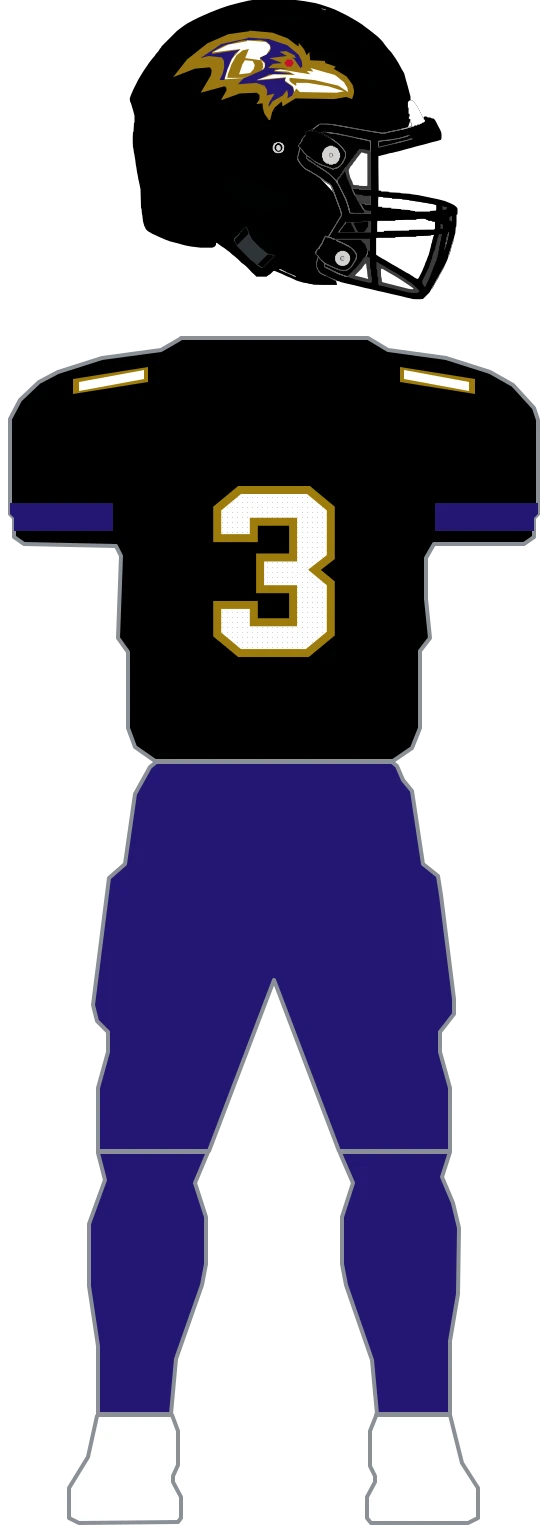
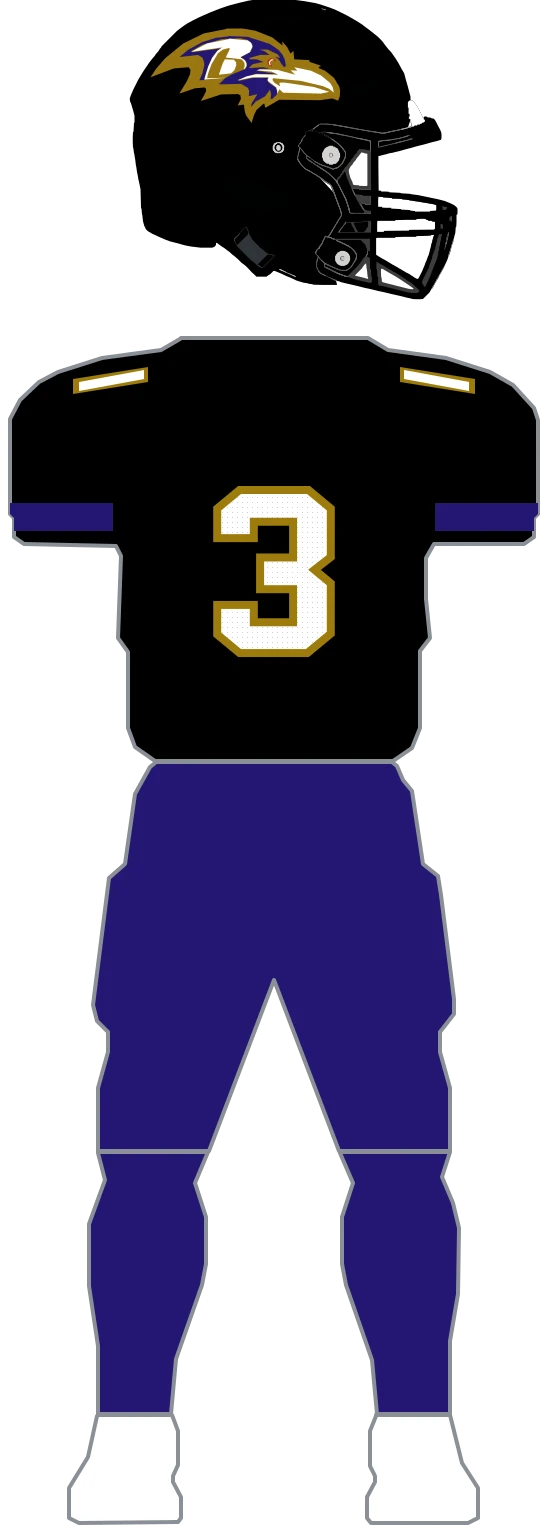
fix(uniforms): correct Ravens helmet decal

Changed region(s): [[0.2732, 0.0, 0.6375, 0.0919]]

diff --git a/lib/uniforms/teams/ravens.ts b/lib/uniforms/teams/ravens.ts
@@ -46,10 +46,10 @@ export const RAVENS_SLEEVE_BAND_RIGHT = 'M558,548 H455 V576 H558 Z';
 // gaps are shell-colored and therefore intentionally omitted from the layer stack. Placement was
 // measured from the GUD 2025 helmet: visible mark x=15.4..79.8%, y=11.2..42.8% of the shell.
 export const RAVENS_DECAL_GOLD_PATH =
-  'M378.1,129.1 L424.3,133.3 L454.6,144.6 L475.2,160.2 L477.0,160.2 L476.8,154.5 L477.9,154.5 L488.1,167.3 L492.9,178.6 L498.2,171.5 L499.8,188.5 L529.1,189.9 L530.2,194.1 L551.0,201.2 L546.8,205.4 L572.9,221.0 L584.8,237.9 L587.4,247.8 L587.4,254.9 L583.7,266.2 L571.6,261.9 L548.3,266.2 L470.5,264.8 L445.4,280.3 L444.3,280.3 L443.5,271.8 L442.0,271.8 L428.8,283.1 L423.5,293.0 L420.1,307.2 L417.4,308.6 L407.9,294.5 L405.0,283.1 L404.7,274.7 L392.3,276.1 L397.8,267.6 L398.6,261.9 L398.2,257.7 L392.9,253.5 L359.3,254.9 L324.0,267.6 L321.8,267.6 L332.3,249.2 L332.6,246.4 L331.5,242.2 L328.1,240.7 L280.9,253.5 L301.5,218.1 L302.8,208.2 L299.3,202.6 L269.2,205.4 L225.7,222.4 L253.5,187.0 L294.4,154.5 L336.4,136.2 L378.0,130.5 Z M373.6,167.3 L377.3,167.3 L369.9,185.6 L398.9,188.5 L404.0,192.7 L406.0,199.8 L403.7,206.8 L372.0,222.4 L334.3,222.4 L342.4,198.4 L351.4,181.4 L362.2,171.5 L373.5,168.7 Z M373.0,153.1 L399.7,153.1 L415.0,158.8 L417.1,164.4 L414.3,171.5 L398.1,181.4 L388.6,182.8 L399.2,172.9 L399.2,167.3 L394.1,161.6 L317.3,168.7 L372.8,154.5 Z';
+  'M332.6,125.0 L364.5,125.0 L390.2,129.4 L423.7,142.6 L443.8,158.4 L444.5,157.5 L443.8,151.4 L444.5,151.4 L454.3,162.8 L460.4,175.1 L466.4,169.9 L468.0,186.6 L498.8,188.3 L498.1,190.1 L498.8,191.9 L520.2,198.9 L521.1,200.6 L517.1,201.5 L517.3,204.2 L529.4,209.4 L547.3,223.5 L558.0,241.1 L559.8,249.0 L559.1,260.5 L555.8,269.3 L543.9,264.9 L519.6,268.4 L438.0,267.5 L410.8,283.3 L409.2,281.6 L408.3,275.4 L406.5,275.4 L392.7,287.7 L387.8,297.4 L382.6,314.1 L371.2,298.3 L368.8,289.5 L367.4,277.2 L354.9,278.9 L361.4,265.7 L360.1,258.7 L355.8,256.1 L321.6,256.9 L281.2,270.1 L291.7,250.8 L291.5,245.5 L288.8,242.9 L269.4,244.6 L238.1,255.2 L253.1,230.6 L259.5,216.5 L260.6,207.7 L256.8,202.4 L226.9,205.0 L180.4,222.6 L191.4,205.9 L209.5,184.8 L245.9,154.9 L287.2,134.7 L332.4,125.9 Z M336.6,164.6 L338.6,166.3 L331.0,183.9 L362.7,187.5 L368.5,194.5 L368.5,201.5 L366.3,206.8 L346.7,213.8 L334.4,221.8 L293.7,223.5 L302.6,197.1 L312.7,178.7 L325.2,168.1 L336.4,165.5 Z M337.5,149.6 L366.3,150.5 L379.3,156.7 L380.8,162.8 L377.5,169.9 L357.2,180.4 L352.2,180.4 L360.7,173.4 L362.1,169.9 L362.1,165.5 L359.8,161.1 L353.6,158.4 L318.3,159.3 L277.8,165.5 L307.1,154.9 L337.3,150.5 Z';
 export const RAVENS_DECAL_PURPLE_PATH =
-  'M374.9,143.2 L417.6,146.1 L454.6,158.8 L476.6,177.2 L482.9,189.9 L484.2,201.2 L480.5,204.0 L467.5,185.6 L461.0,182.8 L471.2,184.2 L468.3,178.6 L451.7,170.1 L438.3,171.5 L453.6,180.0 L417.9,184.2 L443.6,194.1 L425.6,195.5 L415.5,204.0 L455.2,205.4 L430.0,206.8 L427.4,211.1 L466.2,215.3 L418.2,216.7 L392.3,229.4 L451.5,223.8 L449.1,225.2 L449.3,230.9 L465.0,242.2 L467.3,250.6 L463.9,259.1 L454.3,264.8 L455.6,256.3 L453.6,247.8 L444.9,259.1 L424.6,270.4 L417.2,281.7 L416.6,277.5 L417.9,273.3 L428.8,254.9 L412.7,259.1 L413.9,253.5 L413.5,247.8 L408.4,239.3 L391.2,233.7 L355.3,236.5 L366.2,225.2 L407.6,206.8 L409.7,199.8 L408.9,192.7 L399.5,184.2 L419.0,171.5 L420.5,167.3 L420.5,160.2 L413.9,151.7 L400.2,147.5 L362.7,148.9 L327.4,158.8 L304.1,171.5 L303.3,175.7 L304.9,175.7 L360.3,167.3 L350.1,174.3 L341.3,188.5 L329.0,222.4 L328.6,228.0 L330.6,228.0 L318.6,228.0 L324.9,215.3 L327.9,202.6 L327.4,189.9 L322.9,182.8 L297.0,180.0 L280.3,184.2 L322.3,156.0 L374.7,144.6 Z M370.9,192.7 L378.0,195.5 L380.1,198.4 L380.1,204.0 L378.9,205.4 L378.6,208.2 L379.4,209.7 L374.7,212.5 L362.4,213.9 L365.9,201.2 L370.7,194.1 Z M382.8,167.3 L388.3,170.1 L389.2,171.5 L389.2,175.7 L386.2,181.4 L376.0,182.8 L374.9,181.4 L377.6,174.3 L382.6,168.7 Z';
+  'M336.6,140.0 L375.0,141.7 L419.3,155.8 L436.9,168.1 L444.1,176.9 L449.2,187.5 L451.0,198.0 L450.8,201.5 L446.5,201.5 L435.8,185.7 L429.1,181.3 L440.0,183.9 L435.1,176.9 L415.0,167.2 L397.8,167.2 L409.2,170.7 L418.6,177.8 L399.6,177.8 L378.6,183.9 L378.4,186.6 L392.9,186.6 L406.5,191.9 L385.1,196.2 L376.8,204.2 L404.7,202.4 L419.7,205.0 L398.9,205.9 L392.5,209.4 L436.0,216.5 L390.9,215.6 L354.7,227.9 L357.8,229.7 L386.2,223.5 L415.9,223.5 L416.6,224.4 L415.0,225.3 L414.6,228.8 L416.8,233.2 L431.8,243.8 L433.6,249.9 L433.3,255.2 L434.2,256.1 L425.1,264.9 L420.8,266.6 L421.5,256.1 L419.7,248.1 L418.6,248.1 L409.9,260.5 L391.1,271.0 L381.3,282.5 L382.8,274.5 L394.5,256.1 L377.0,260.5 L377.7,249.9 L375.2,243.8 L361.6,235.8 L317.2,236.7 L329.7,224.4 L341.7,217.4 L370.3,205.9 L373.0,199.8 L373.0,195.4 L371.9,191.9 L367.2,185.7 L360.3,183.1 L380.8,171.6 L384.4,162.8 L383.5,155.8 L375.0,147.9 L360.7,144.4 L323.6,146.1 L283.9,157.5 L261.5,170.7 L265.1,172.5 L321.9,164.6 L313.4,169.9 L304.2,182.2 L295.5,201.5 L289.5,220.0 L288.1,227.9 L278.1,228.8 L284.3,214.7 L287.9,199.8 L287.9,192.7 L284.3,183.1 L274.7,177.8 L238.3,182.2 L256.2,167.2 L283.9,152.3 L311.8,143.5 L336.4,140.8 Z M331.0,191.9 L338.8,195.4 L341.1,198.9 L341.1,201.5 L336.8,212.1 L323.9,213.0 L330.8,192.7 Z';
 export const RAVENS_DECAL_WHITE_PATH =
-  'M500.1,204.0 L549.6,218.1 L567.3,232.3 L574.2,243.6 L575.5,252.1 L556.2,239.3 L508.0,228.0 L459.4,223.8 L458.3,225.2 L458.4,229.4 L462.3,233.7 L471.2,239.3 L472.5,237.9 L471.6,233.7 L494.2,233.7 L536.7,240.7 L567.4,250.6 L552.1,253.5 L479.2,252.1 L472.3,245.0 L467.5,252.1 L467.3,246.4 L465.4,240.7 L449.4,229.4 L451.8,222.4 L392.8,228.0 L426.7,216.7 L469.9,218.1 L456.5,211.1 L427.7,209.7 L439.9,206.8 L500.0,216.7 L492.9,209.7 L506.4,211.1 L500.3,204.0 Z M373.6,148.9 L410.5,151.7 L418.2,157.4 L420.3,164.4 L412.4,177.2 L399.1,182.8 L399.7,187.0 L408.6,194.1 L409.2,198.4 L408.7,202.6 L405.0,206.8 L403.9,206.8 L405.8,202.6 L405.8,195.5 L401.3,188.5 L369.9,184.2 L377.3,165.8 L364.9,168.7 L352.5,178.6 L342.4,196.9 L334.8,218.1 L334.3,223.8 L369.8,223.8 L328.9,226.6 L334.5,206.8 L343.7,185.6 L360.7,165.8 L304.4,172.9 L335.5,157.4 L373.5,150.3 Z M368.8,188.5 L384.9,189.9 L389.1,198.4 L386.5,206.8 L379.7,213.9 L357.5,216.7 L364.8,195.5 L368.6,189.9 Z M455.2,188.5 L460.9,188.5 L454.7,191.3 L454.3,196.9 L456.0,199.8 L450.9,194.1 L455.1,189.9 Z';
+  'M468.0,202.4 L501.2,209.4 L521.8,219.1 L539.9,234.1 L544.8,242.0 L547.3,253.4 L537.7,245.5 L525.1,240.2 L480.5,229.7 L425.7,224.4 L424.4,227.9 L428.0,233.2 L438.7,240.2 L439.6,239.4 L438.0,235.0 L439.6,233.2 L449.2,233.2 L507.7,242.0 L537.9,251.7 L521.4,255.2 L445.6,253.4 L438.5,246.4 L433.8,255.2 L434.0,249.9 L432.0,242.9 L415.0,229.7 L415.0,226.2 L417.0,222.6 L385.1,222.6 L354.9,228.8 L372.1,220.9 L391.6,216.5 L436.2,217.4 L422.2,211.2 L392.5,208.6 L399.8,206.8 L434.0,207.7 L470.0,217.4 L460.6,208.6 L474.0,209.4 L468.2,202.4 Z M337.7,145.2 L374.6,148.8 L381.3,153.1 L384.0,158.4 L384.2,161.9 L379.0,172.5 L360.1,182.2 L369.9,189.2 L372.3,194.5 L372.6,199.8 L368.8,205.9 L366.5,205.9 L368.8,201.5 L368.5,193.6 L362.7,186.6 L331.0,183.1 L338.6,167.2 L338.6,163.7 L325.2,167.2 L315.6,174.3 L302.6,196.2 L295.3,216.5 L293.7,224.4 L331.7,223.5 L288.1,227.0 L296.2,200.6 L303.8,183.9 L314.3,169.9 L323.6,162.8 L261.8,171.6 L293.5,154.9 L337.5,146.1 Z M329.0,186.6 L347.3,187.5 L351.8,192.7 L352.0,198.9 L348.2,208.6 L341.5,214.7 L317.2,217.4 L325.0,194.5 L328.8,187.5 Z M421.9,186.6 L427.5,187.5 L420.8,190.1 L419.7,195.4 L421.3,198.9 L417.9,197.1 L416.6,191.9 L421.7,187.5 Z';
 export const RAVENS_DECAL_EYE_PATH =
-  'M452.7,187.0 L462.3,187.0 L466.0,191.3 L466.2,195.5 L462.3,201.2 L452.5,201.2 L448.3,194.1 L452.5,188.5 Z';
+  'M419.7,184.8 L428.2,185.7 L432.0,191.9 L426.4,188.3 L427.7,187.5 L426.4,185.7 L419.9,186.6 L416.4,191.9 L417.9,198.0 L421.7,199.8 L419.9,192.7 L424.4,189.2 L421.5,191.0 L420.6,194.5 L423.3,199.8 L427.3,200.6 L419.5,200.6 L414.3,194.5 L415.0,189.2 L419.5,185.7 Z';

diff --git a/scripts/uniform-draw/ravens_mark.py b/scripts/uniform-draw/ravens_mark.py
@@ -3,28 +3,24 @@
     python3 scripts/uniform-draw/ravens_mark.py            # print generated paths
     python3 scripts/uniform-draw/ravens_mark.py --check    # verify ravens.ts matches
 
-This is a contour trace of the approved standalone club mark, not a trace of the
-low-resolution helmet thumbnail.  The source is Wikimedia's ``File:Baltimore
-Ravens logo.svg`` (non-free/fair-use artwork on en.wikipedia; the trademark and
-licence audit are recorded in the vault's 2026-09-03 Decisions entry).  The
-reference is kept in the sibling ``nfl-uniform-refs`` checkout and is never
-committed here.
+This is a contour trace of the supplied standalone club mark, not a trace of the
+low-resolution helmet thumbnail.  The source is ``/Users/cwharris/Downloads/2026_Baltimore.svg``
+(non-free/trademarked artwork supplied for this pass; it is never committed here).
 
 Topology, measured from a 2400px true-aspect raster of that SVG before tracing:
-gold is 3 connected components, purple is 3, white is 6 enclosed components,
-and red is 1.  The large white page background is border-connected and discarded;
-the white mark pieces are holes/details, not background.  Black is deliberately
-not emitted: on every Ravens helmet it is the shell colour and therefore supplies
-the mark's negative-space gaps.  The selection trap is the SVG's full lockup: its
-black shell gaps and white page background must not become extra decal layers, and
-the tiny red eye must be selected independently rather than lost in the purple
-head.
+The visible source has separate gold, purple, white, black, and eye components.
+The eye is gold in the supplied vector but is intentionally emitted as red to
+match the helmet reference.  The large white page background is border-connected
+and discarded; black is deliberately not emitted because the helmet shell
+supplies those negative-space gaps.  The selection trap is treating the gold eye
+ring as part of the gold silhouette; the smallest interior gold component is
+isolated and recolored red.
 
 Placement is measured only from the GUD 2025 helmet composite.  In the first
 right-facing helmet, the shell is x=56..160, y=28..126 and the visible mark is
 x=72..139, y=39..69: left=15.4%, width=64.4%, top=11.2%, height=31.6% of the
 shell.  Transferred to the raw helmet silhouette x=139..701.5, y=65..637.4,
-that is ``Box(225.7, 129.1, 362.0, 180.9)``.  The mark is allowed to overhang
+that is ``Box(180.0, 125.0, 380.0, 190.0)``.  The mark is allowed to overhang
 inside that measured box only where the shell clip hides the wrapped rear edge;
 no side-seam or leg detail is authored for the front-facing figure.
 
@@ -49,13 +45,13 @@ sys.path.insert(0, str(Path(__file__).resolve().parent))
 
 from drawkit import Box, components, main, trace  # noqa: E402
 
-REF = Path.home() / 'Documents/GitHubProjects/nfl-uniform-refs/ravens/ravens-mark.svg'
+REF = Path('/Users/cwharris/Downloads/2026_Baltimore.svg')
 MODULE = Path(__file__).resolve().parents[2] / 'lib' / 'uniforms' / 'teams' / 'ravens.ts'
 RENDER_WIDTH = 2400
 EPS = 2.4
 MIN_REGION = 100
 
-BOX = Box(225.7, 129.1, 362.0, 180.9)
+BOX = Box(180.0, 125.0, 380.0, 190.0)
 
 PALETTE = {
     'gold': (154, 118, 17),
@@ -122,6 +118,19 @@ def ink_mask(labels, name):
     return [[1 if (x, y) in cells else 0 for x in range(w)] for y in range(h)]
 
 
+def smallest_interior_mask(labels, name):
+    """Return the smallest non-border component for the supplied ink colour."""
+    h, w = len(labels), len(labels[0])
+    raw = [[1 if labels[y][x] == name else 0 for x in range(w)] for y in range(h)]
+    regions = [
+        region
+        for region in components(raw, w, h, MIN_REGION)
+        if not any(x in (0, w - 1) or y in (0, h - 1) for x, y in region)
+    ]
+    eye = set(min(regions, key=len))
+    return [[1 if (x, y) in eye else 0 for x in range(w)] for y in range(h)]
+
+
 def build():
     labels = classify(raster())
     height, width = len(labels), len(labels[0])
@@ -138,11 +147,17 @@ def build():
         return [row[x0:x1] for row in mask[y0:y1]]
 
     art_width, art_height = x1 - x0, y1 - y0
+    eye = smallest_interior_mask(labels, 'gold')
+    gold = ink_mask(labels, 'gold')
+    gold = [
+        [value and not eye[y][x] for x, value in enumerate(row)]
+        for y, row in enumerate(gold)
+    ]
     return {
-        'RAVENS_DECAL_GOLD_PATH': trace(crop(ink_mask(labels, 'gold')), art_width, art_height, BOX, eps=EPS, minsize=MIN_REGION, space='image'),
+        'RAVENS_DECAL_GOLD_PATH': trace(crop(gold), art_width, art_height, BOX, eps=EPS, minsize=MIN_REGION, space='image'),
         'RAVENS_DECAL_PURPLE_PATH': trace(crop(ink_mask(labels, 'purple')), art_width, art_height, BOX, eps=EPS, minsize=MIN_REGION, space='image'),
         'RAVENS_DECAL_WHITE_PATH': trace(crop(ink_mask(labels, 'white')), art_width, art_height, BOX, eps=EPS, minsize=MIN_REGION, space='image'),
-        'RAVENS_DECAL_EYE_PATH': trace(crop(ink_mask(labels, 'red')), art_width, art_height, BOX, eps=EPS, minsize=MIN_REGION, space='image'),
+        'RAVENS_DECAL_EYE_PATH': trace(crop(eye), art_width, art_height, BOX, eps=EPS, minsize=MIN_REGION, space='image'),
     }
 
 
